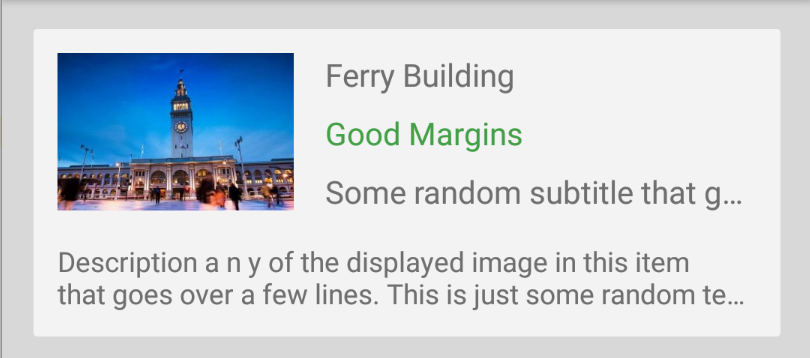
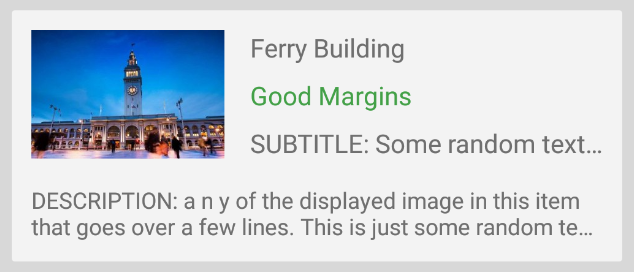
Add subtitle and description prefixes to make thesample and screenshots readable

Changed region(s): [[0.0, 0.0, 1.0, 1.0]]

diff --git a/app/src/main/java/com/achie/bug/constraint/Landmark.kt b/app/src/main/java/com/achie/bug/constraint/Landmark.kt
@@ -1,6 +1,6 @@
 package com.achie.bug.constraint
 
 data class Landmark(val title: String,
-                    val subtitle: String = "Some random subtitle that goes over a line on a phone screen",
-                    val description: String = "Description a n y of the displayed image in this item that goes over a few lines. This is just some random text. When a device goes from just working to actually making life easier, Android is behind it. It’s the reason your GPS avoids traffic, your watch can text and your Assistant can answer questions. It’s the operating system inside 2.5 billion active devices. Everything from 5G phones to stunning tablets, Android powers them all.",
+                    val subtitle: String = "SUBTITLE: Some random text that goes over a line on a phone screen",
+                    val description: String = "DESCRIPTION: a n y of the displayed image in this item that goes over a few lines. This is just some random text. When a device goes from just working to actually making life easier, Android is behind it. It’s the reason your GPS avoids traffic, your watch can text and your Assistant can answer questions. It’s the operating system inside 2.5 billion active devices. Everything from 5G phones to stunning tablets, Android powers them all.",
                     val imageResId: Int)
